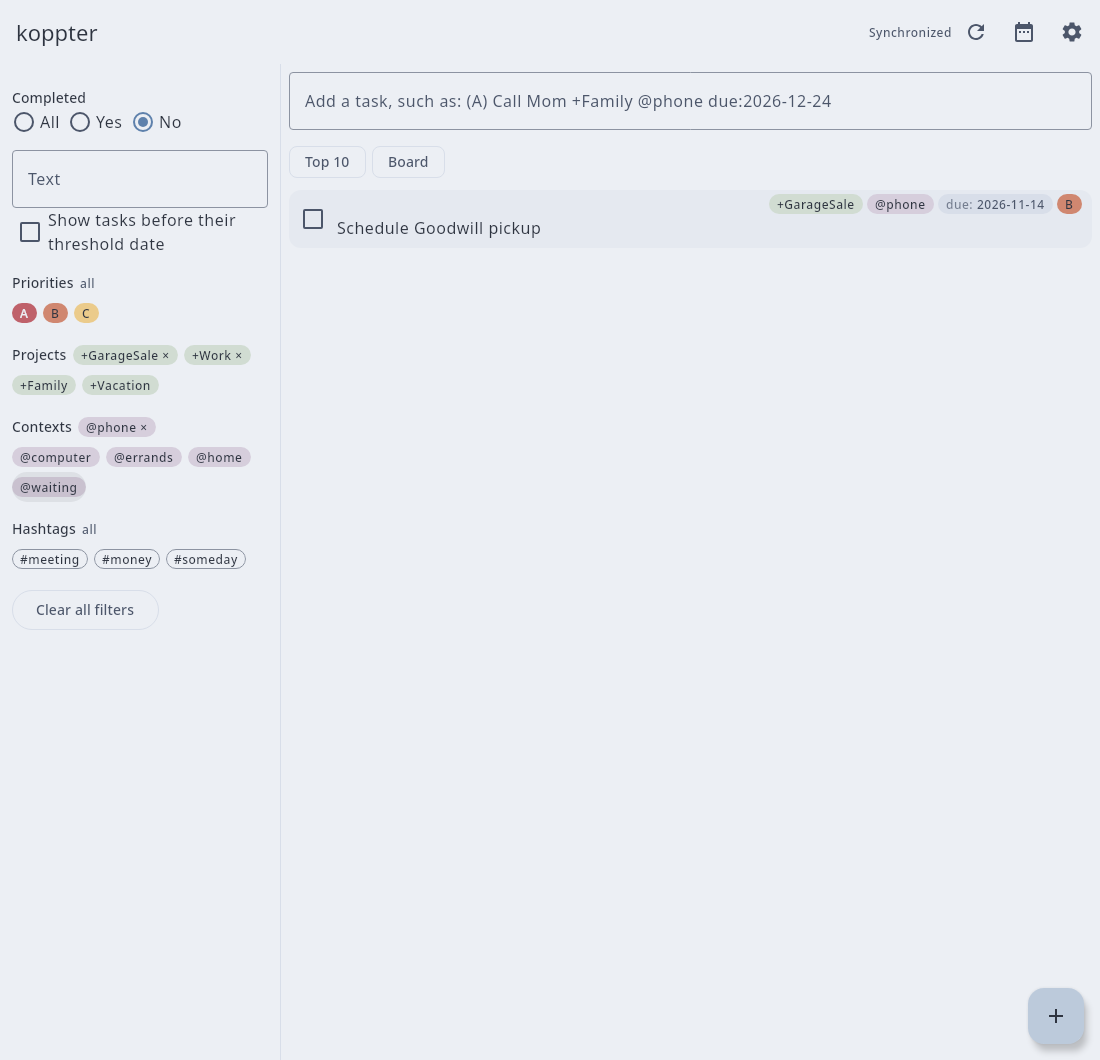
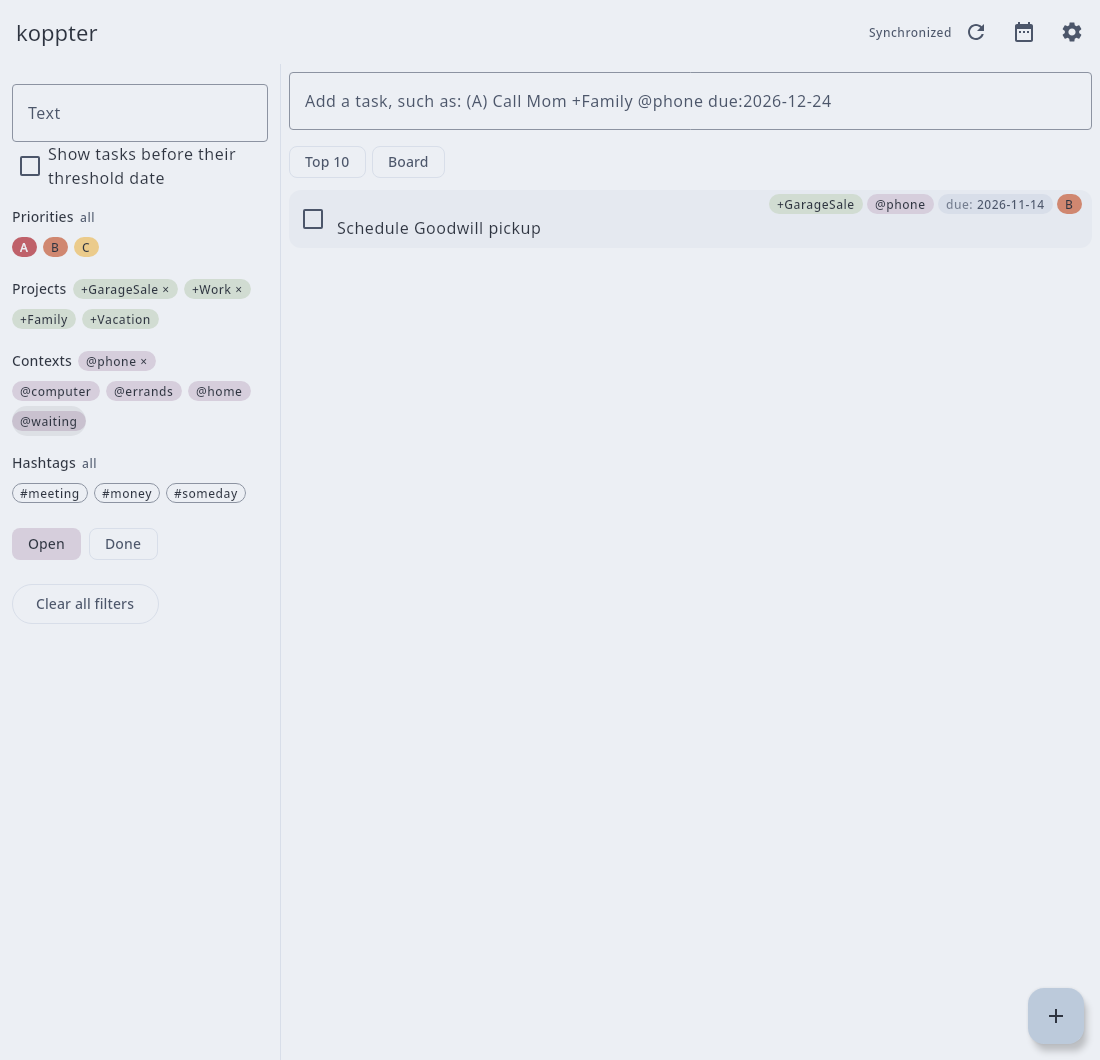
Show the completion filter as two switches at the bottom
The completion state is the criterion that is changed least often, but stood first in the filter panel as three radio buttons. It is now the last criterion, as the switches Open and Done.

Changed region(s): [[0.0, 0.0623, 0.2473, 0.5292], [0.0309, 0.5604, 0.1236, 0.5915], [0.1545, 0.4981, 0.2164, 0.5292]]

diff --git a/app/src/commonMain/kotlin/io/github/koppor/koppter/ui/FilterPanel.kt b/app/src/commonMain/kotlin/io/github/koppor/koppter/ui/FilterPanel.kt
@@ -13,6 +13,7 @@ import androidx.compose.foundation.selection.toggleable
 import androidx.compose.foundation.shape.CircleShape
 import androidx.compose.foundation.verticalScroll
 import androidx.compose.material3.Checkbox
+import androidx.compose.material3.FilterChip
 import androidx.compose.material3.MaterialTheme
 import androidx.compose.material3.OutlinedButton
 import androidx.compose.material3.OutlinedTextField
@@ -29,7 +30,7 @@ import io.github.koppor.koppter.todotxt.Completion
 import io.github.koppor.koppter.todotxt.Filter
 
 /**
- * The filter criteria as a column: completion, text, priorities, projects, contexts, hashtags.
+ * The filter criteria as a column: text, threshold date, priorities, projects, contexts, hashtags, completion.
  * Priorities, projects, contexts and hashtags offer the values that occur in the file, as the labels that the tasks carry.
  */
 // [impl->dsn~filter-panel~1]
@@ -44,20 +45,12 @@ fun FilterPanel(
     modifier: Modifier = Modifier,
 ) {
     Column(modifier.verticalScroll(rememberScrollState()).padding(12.dp).testTag("filter-panel")) {
-        Heading("Completed")
-        RadioRow(
-            listOf(Completion.ALL to "All", Completion.COMPLETED to "Yes", Completion.OPEN to "No"),
-            filter.completion,
-            tag = "filter-completed",
-            onSelect = { onChange(filter.copy(completion = it)) },
-        )
-
         OutlinedTextField(
             value = filter.text,
             onValueChange = { onChange(filter.copy(text = it)) },
             label = { Text("Text") },
             singleLine = true,
-            modifier = Modifier.fillMaxWidth().padding(top = 8.dp).testTag("filter-text"),
+            modifier = Modifier.fillMaxWidth().testTag("filter-text"),
         )
 
         Option("Show tasks before their threshold date", !filter.hideFuture, "filter-future") {
@@ -76,6 +69,25 @@ fun FilterPanel(
         // [impl->dsn~hashtags-in-ui~1]
         LabelFilter("Hashtags", hashtags, filter.hashtags, { "filter-hashtag-$it" }, { onChange(filter.copy(hashtags = it)) }) { value, suffix, modifier ->
             HashtagLabel(value, modifier, suffix)
+        }
+
+        // The criterion that is changed least often stands last.
+        Row(Modifier.padding(top = 12.dp), horizontalArrangement = Arrangement.spacedBy(8.dp)) {
+            val open = filter.completion != Completion.COMPLETED
+            val done = filter.completion != Completion.OPEN
+            fun show(open: Boolean, done: Boolean) = onChange(
+                filter.copy(
+                    completion = when {
+                        open && done -> Completion.ALL
+                        open -> Completion.OPEN
+                        done -> Completion.COMPLETED
+                        // Switching off the only selected state selects the other one: a list of neither is of no use.
+                        else -> if (filter.completion == Completion.OPEN) Completion.COMPLETED else Completion.OPEN
+                    },
+                ),
+            )
+            FilterChip(selected = open, onClick = { show(!open, done) }, label = { Text("Open") }, modifier = Modifier.testTag("filter-open"))
+            FilterChip(selected = done, onClick = { show(open, !done) }, label = { Text("Done") }, modifier = Modifier.testTag("filter-done"))
         }
 
         OutlinedButton(
@@ -125,11 +137,6 @@ private fun <T : Comparable<T>> LabelFilter(
     FlowRow(horizontalArrangement = Arrangement.spacedBy(6.dp)) {
         for (value in values.sorted().filter { it !in selected }) label(value, "", modifier(value, false))
     }
-}
-
-@Composable
-private fun Heading(text: String) {
-    Text(text, style = MaterialTheme.typography.titleSmall, modifier = Modifier.padding(top = 12.dp, bottom = 2.dp))
 }
 
 @Composable

diff --git a/app/src/desktopTest/kotlin/io/github/koppor/koppter/ui/AppTest.kt b/app/src/desktopTest/kotlin/io/github/koppor/koppter/ui/AppTest.kt
@@ -201,9 +201,15 @@ class AppTest {
         onAllNodesWithTag("task").assertCountEquals(2)
         onNodeWithTag("filter-clear").performClick()
         onAllNodesWithTag("task").assertCountEquals(3)
-        onNodeWithTag("filter-completed-Yes").performClick()
+        // Open and done are two switches; switching off the only selected one selects the other.
+        onNodeWithTag("filter-done").performScrollTo().performClick()
+        onAllNodesWithTag("task").assertCountEquals(4)
+        onNodeWithTag("filter-open").performClick()
         onAllNodesWithTag("task").assertCountEquals(1)
         onNodeWithText("Call Mom").assertExists()
+        onNodeWithTag("filter-done").performClick()
+        onNodeWithTag("filter-open").assertIsSelected()
+        onAllNodesWithTag("task").assertCountEquals(3)
     }
 
     // [utest->dsn~reload-on-external-change~1]

diff --git a/CHANGELOG.md b/CHANGELOG.md
@@ -12,7 +12,7 @@ and this project adheres to [Calendar Versioning](https://calver.org/) with the 
 - Desktop application that shows the tasks of a todo.txt file with projects, contexts, tags and priority as labels at the top right of each task.
 - Adding a task by typing a line in todo.txt syntax.
 - Edit dialog with the description separate from the metadata and a preview of the resulting todo.txt line.
-- Filter panel for completion state, text, priorities, projects, contexts and threshold date; priorities, projects and contexts are selected as the labels that the tasks carry.
+- Filter panel for completion state, text, priorities, projects, contexts and threshold date; priorities, projects and contexts are selected as the labels that the tasks carry, and the completion state with the switches *Open* and *Done*.
 - Setting for the location of the todo.txt file and for writing creation and completion dates, which are not written by default.
 - Android application with the same screens; the todo.txt file is kept in the storage of the application or chosen with the document picker of the system.
 - Button in the settings that opens the file dialog of the platform to choose the todo.txt file.

diff --git a/docs/requirements/ui.md b/docs/requirements/ui.md
@@ -205,7 +205,7 @@ Needs: impl, utest
 ### Filter panel
 `dsn~filter-panel~1`
 
-`FilterPanel` shows the criteria of `Filter`: the completion state as radio buttons, the text as a text field, and the threshold date as a checkbox.
+`FilterPanel` shows the criteria of `Filter`: the text as a text field and the threshold date as a checkbox at the top, and the completion state as the two switches *Open* and *Done* at the bottom, of which at least one is on.
 Priorities, projects, contexts and hashtags are shown as the labels that the task list uses for them.
 The selected values stand beside the title of the criterion and the other values below it, both sorted; a click on a label moves it to the other group.
 From a width of 840 dp on, the main screen places the panel beside the list; below that, the panel is the content of a navigation drawer.
